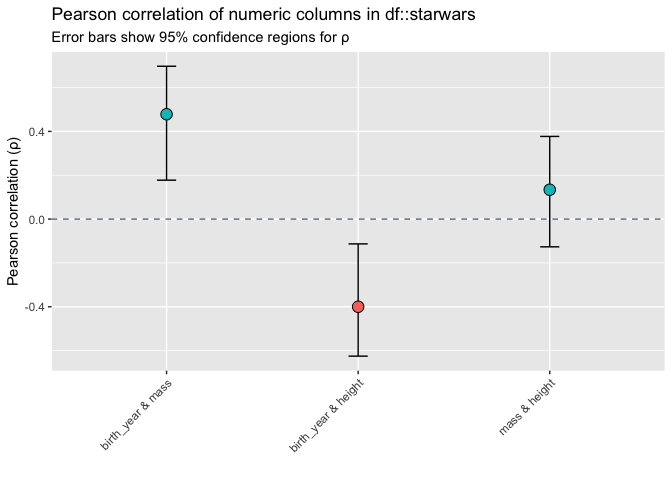
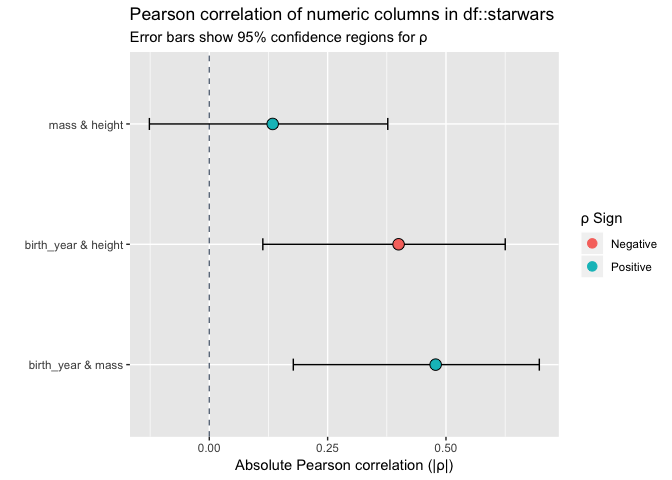
Minor readme update

diff --git a/README.md b/README.md
@@ -2,7 +2,7 @@
 reporter <img src="man/figures/hex.png" align="right" width="120" />
 ====================================================================
 
-[![Build Status](https://travis-ci.org/alastairrushworth/reporter.svg?branch=master)](https://travis-ci.org/alastairrushworth/reporter)
+[![Build Status](https://travis-ci.org/alastairrushworth/reporter.svg?branch=master)](https://travis-ci.org/alastairrushworth/reporter) [![codecov](https://codecov.io/gh/alastairrushworth/reporter/branch/master/graph/badge.svg)](https://codecov.io/gh/alastairrushworth/reporter)
 
 Overview
 --------
@@ -65,21 +65,21 @@ report_space(starwars, show_plot = T)
 ![](man/figures/README-unnamed-chunk-5-1.png)
 
     ## # A tibble: 13 x 3
-    ##    col_names  size      percent_space
-    ##    <chr>      <chr>             <dbl>
-    ##  1 films      19.54 Kb         36.5  
-    ##  2 starships  7.27 Kb          13.6  
-    ##  3 name       6.13 Kb          11.5  
-    ##  4 vehicles   5.8 Kb           10.8  
-    ##  5 homeworld  3.52 Kb           6.58 
-    ##  6 species    2.88 Kb           5.39 
-    ##  7 skin_color 2.59 Kb           4.85 
-    ##  8 eye_color  1.57 Kb           2.93 
-    ##  9 hair_color 1.41 Kb           2.63 
-    ## 10 gender     976 bytes         1.78 
-    ## 11 mass       744 bytes         1.36 
-    ## 12 birth_year 744 bytes         1.36 
-    ## 13 height     400 bytes         0.730
+    ##    col_name   size        pcnt
+    ##    <chr>      <chr>      <dbl>
+    ##  1 films      19.54 Kb  36.5  
+    ##  2 starships  7.27 Kb   13.6  
+    ##  3 name       6.13 Kb   11.5  
+    ##  4 vehicles   5.8 Kb    10.8  
+    ##  5 homeworld  3.52 Kb    6.58 
+    ##  6 species    2.88 Kb    5.39 
+    ##  7 skin_color 2.59 Kb    4.85 
+    ##  8 eye_color  1.57 Kb    2.93 
+    ##  9 hair_color 1.41 Kb    2.63 
+    ## 10 gender     976 bytes  1.78 
+    ## 11 mass       744 bytes  1.36 
+    ## 12 birth_year 744 bytes  1.36 
+    ## 13 height     400 bytes  0.730
 
 #### Missing values
 
@@ -92,21 +92,21 @@ report_na(starwars, show_plot = T)
 ![](man/figures/README-unnamed-chunk-6-1.png)
 
     ## # A tibble: 13 x 3
-    ##    col_name   count_na percent
-    ##    <chr>         <int>   <dbl>
-    ##  1 birth_year       44   50.6 
-    ##  2 mass             28   32.2 
-    ##  3 homeworld        10   11.5 
-    ##  4 height            6    6.90
-    ##  5 hair_color        5    5.75
-    ##  6 species           5    5.75
-    ##  7 gender            3    3.45
-    ##  8 name              0    0   
-    ##  9 skin_color        0    0   
-    ## 10 eye_color         0    0   
-    ## 11 films             0    0   
-    ## 12 vehicles          0    0   
-    ## 13 starships         0    0
+    ##    col_name   cnt_na  pcnt
+    ##    <chr>       <int> <dbl>
+    ##  1 birth_year     44 50.6 
+    ##  2 mass           28 32.2 
+    ##  3 homeworld      10 11.5 
+    ##  4 height          6  6.90
+    ##  5 hair_color      5  5.75
+    ##  6 species         5  5.75
+    ##  7 gender          3  3.45
+    ##  8 name            0  0   
+    ##  9 skin_color      0  0   
+    ## 10 eye_color       0  0   
+    ## 11 films           0  0   
+    ## 12 vehicles        0  0   
+    ## 13 starships       0  0
 
 #### Correlation
 
@@ -119,11 +119,11 @@ report_cor(starwars, show_plot = T)
 ![](man/figures/README-unnamed-chunk-7-1.png)
 
     ## # A tibble: 3 x 7
-    ##   col_1      col_2  pair                correlation p_value  lower  upper
-    ##   <chr>      <chr>  <chr>                     <dbl>   <dbl>  <dbl>  <dbl>
-    ## 1 birth_year mass   birth_year & mass         0.478 0.00318  0.177  0.697
-    ## 2 birth_year height birth_year & height      -0.400 0.00789 -0.625 -0.113
-    ## 3 mass       height mass & height             0.134 0.312   -0.127  0.377
+    ##   col_1      col_2  pair                  corr p_value  lower  upper
+    ##   <chr>      <chr>  <chr>                <dbl>   <dbl>  <dbl>  <dbl>
+    ## 1 birth_year mass   birth_year & mass    0.478 0.00318  0.177  0.697
+    ## 2 birth_year height birth_year & height -0.400 0.00789 -0.625 -0.113
+    ## 3 mass       height mass & height        0.134 0.312   -0.127  0.377
 
 \_<Notes:_>
 + The tibble is sorted in descending order of the absolute coefficient.
